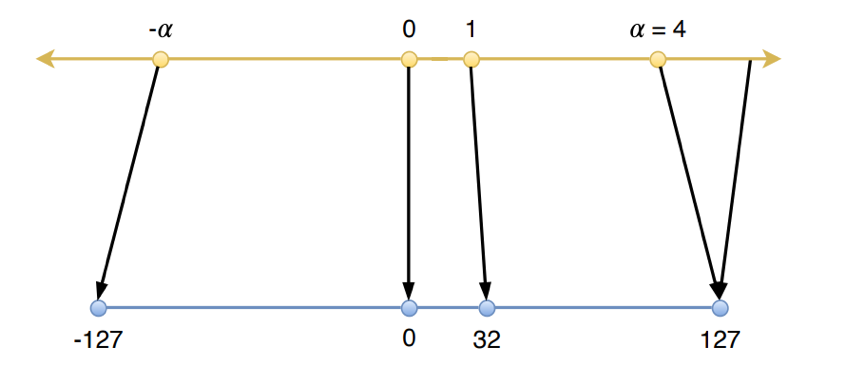
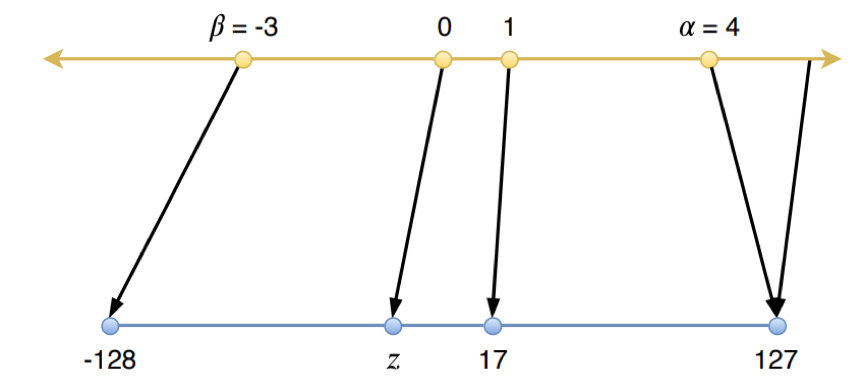
fix PTQ docs

diff --git a/docs/zh_cn/tutorials/quant/post_training_quantization.md b/docs/zh_cn/tutorials/quant/post_training_quantization.md
@@ -22,13 +22,13 @@ s=\frac{2^{b-1}-1}{\alpha}
 $$
 
 $$
-x_{q}=\operatorname{quantize}(x, b, s)=\operatorname{clip}\left(\operatorname{round}(s \cdot x),-2^{b-1}+1,2^{b-1}-1\right)
+x_{q}=\operatorname{quantize}(x, b, s)=\operatorname{clip}\left(\operatorname{round}(s \cdot x),-2^{b-1},2^{b-1}-1\right)
 $$
 
 反量化过程可以用以下公式表述：
 
 $$
-x_{q}=\operatorname{quantize}(x, b, s)=\operatorname{clip}\left(\operatorname{round}(s \cdot x),-2^{b-1}+1,2^{b-1}-1\right)
+x_{dq}=\operatorname{dequantize}(x, s)=\frac{x}{s}
 $$
 
 其中，s为所选取的scale值，即将s作为尺度因子，将全精度参数映射到低比特取值范围；α为选定的全精度参数的表示范围，即全精度参数将被限制在[-α,α]内；b为量化的比特数，x为待量化的全精度参数。因此，如果给定量化的比特数b，我们只需要选定合适的α值，就可以确定量化所需的参数s。
